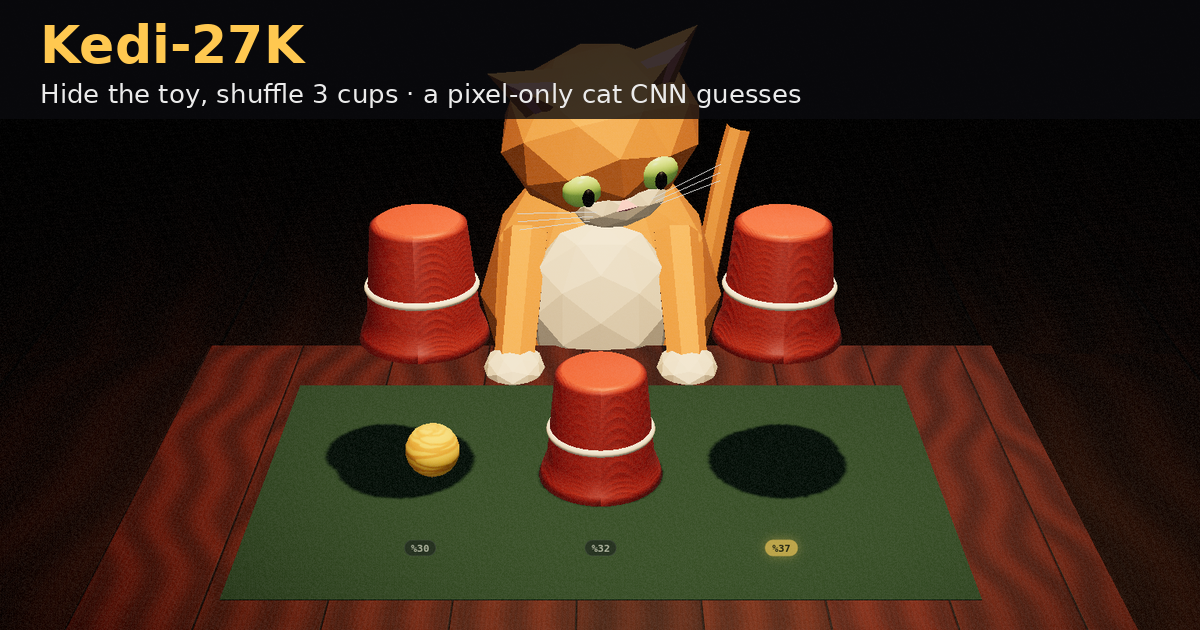
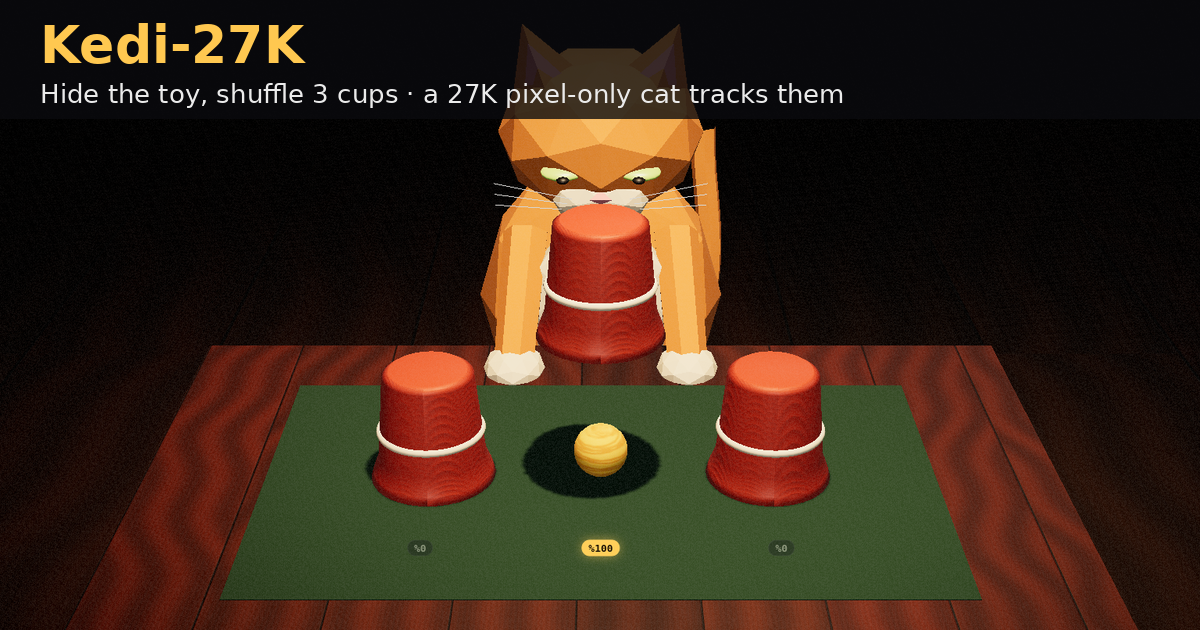
kedi: deployed, prod OG image, screenshots, notes

diff --git a/train-cat/NOTES.md b/train-cat/NOTES.md
@@ -67,3 +67,11 @@ swap events or cup positions). Same three.js scene for training data (headless C
 - Accuracy table: count moved to the note (20 per cell), fixed layout so it fits the panel.
 - cdp-kedi.mjs now also plays 9 real-user rounds (click-click and drag swaps, rapid/slow/2.5 s pauses, mixed with shuffle ×12/20/30 at slider 1.0 = 150 ms per swap, and slider 0 = 900 ms). Slider extremes are inside the training range (speed ∈ [0,1]); manual swaps are 550 ms, queued with a 20 ms gap, also in the training range.
 - Dev run: every guess matched the expected slot by probs; __kediUi.result was a $state proxy (didn't serialize) → now a plain copy.
+
+## C7 deployed (≈18:40 TRT)
+- npm test ✓, svelte-check 0/0, build ✓. wrangler deploy (the first two tries failed with "fetch failed", the third worked) → version 4f5dd908-5355-44ef-bced-0231ef0635bd; redeployed with the prod OG → **8792bfcd-58af-4756-8202-70ace086b46a**.
+- Prod play-through `node scripts/cdp-kedi.mjs https://tiny-models.anil-oz.workers.dev screens/cat`: 0 console errors; normal 5/5; manual 9/9
+  (click and drag, rapid/slow/2.5 s pauses, shuffle ×12/×20/×30 at slider 1.0 = 150 ms per swap, ×6 at slider 0); blank → [0.342, 0.336, 0.322]; mirror 2/2 flipped.
+- The smoke test counted 18 rounds on /api/kedi/stats → reset with `?game=kedi` (dry run first). The counter is now 0.
+- OG regenerated from screens/cat-desktop-reveal.png. Leftover datagen and the :5181 vite are stopped.
+- Later: maybe publish to Hugging Face (not done).
